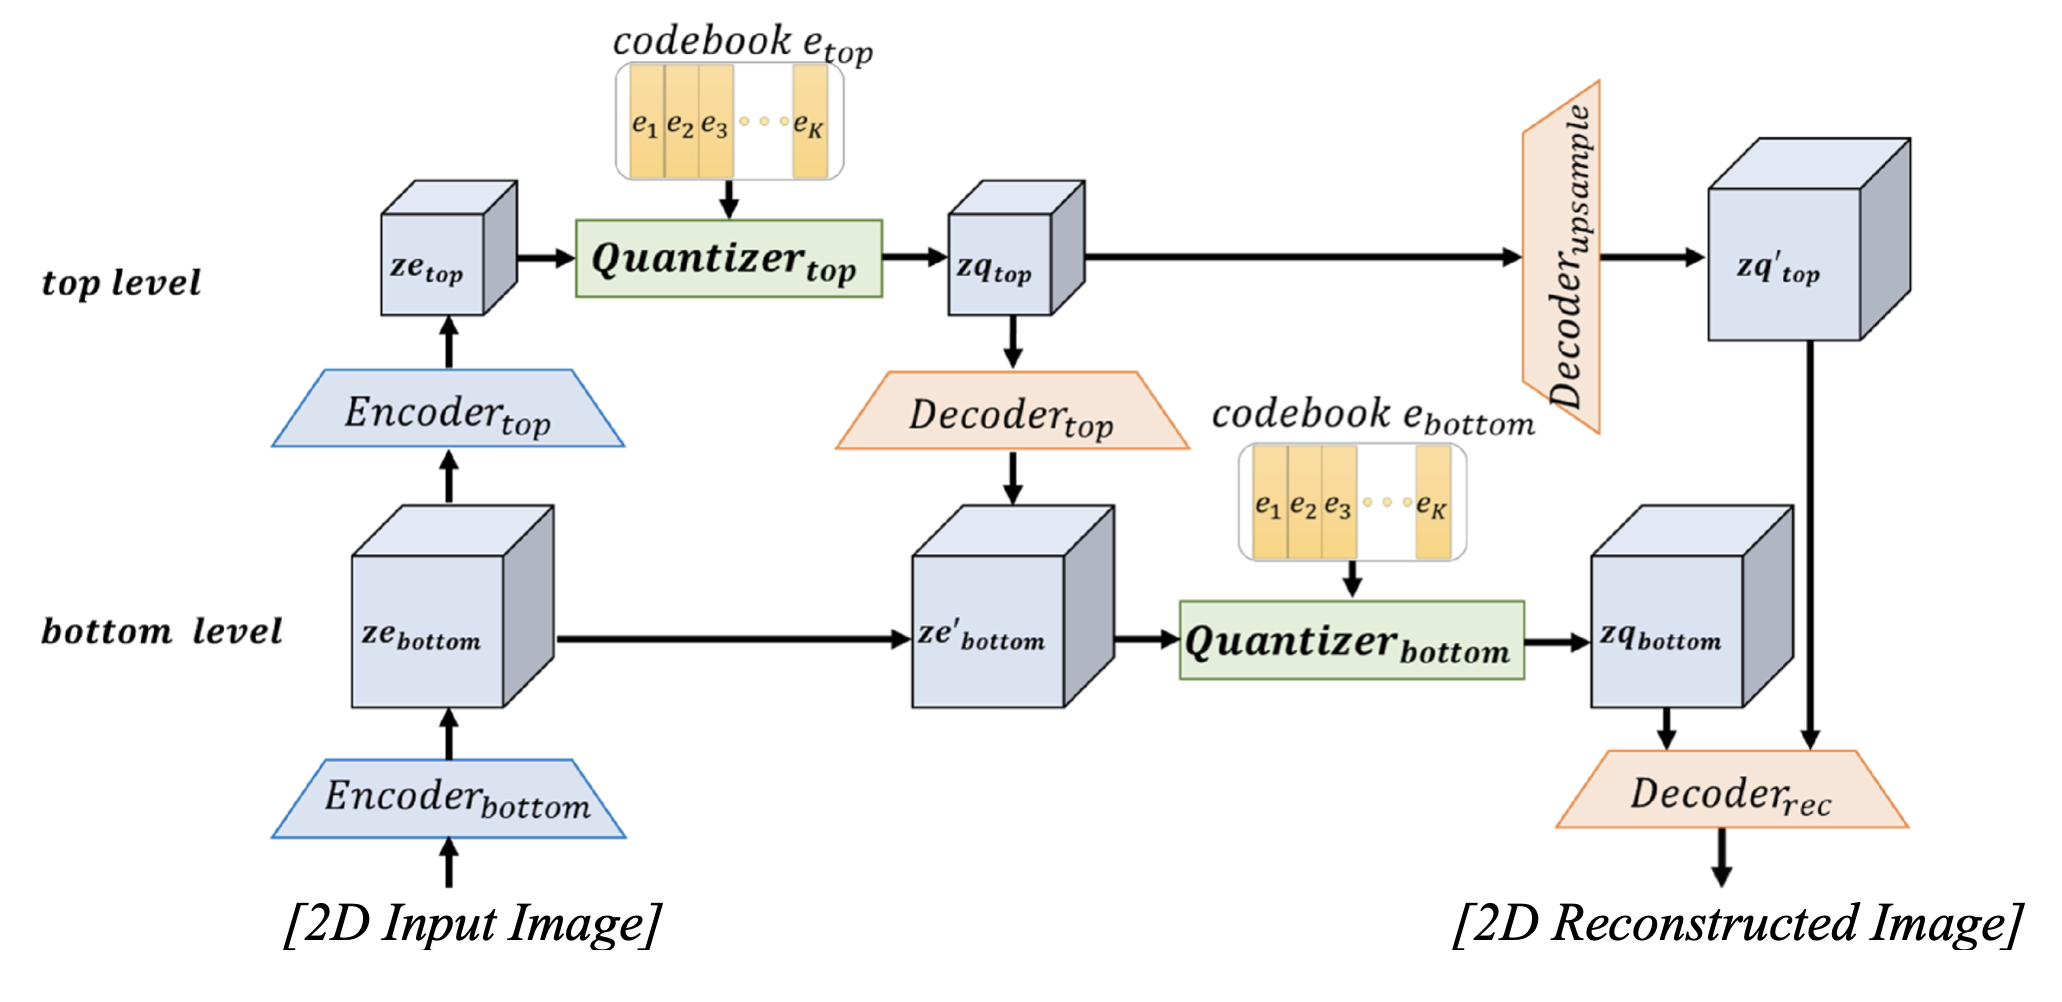
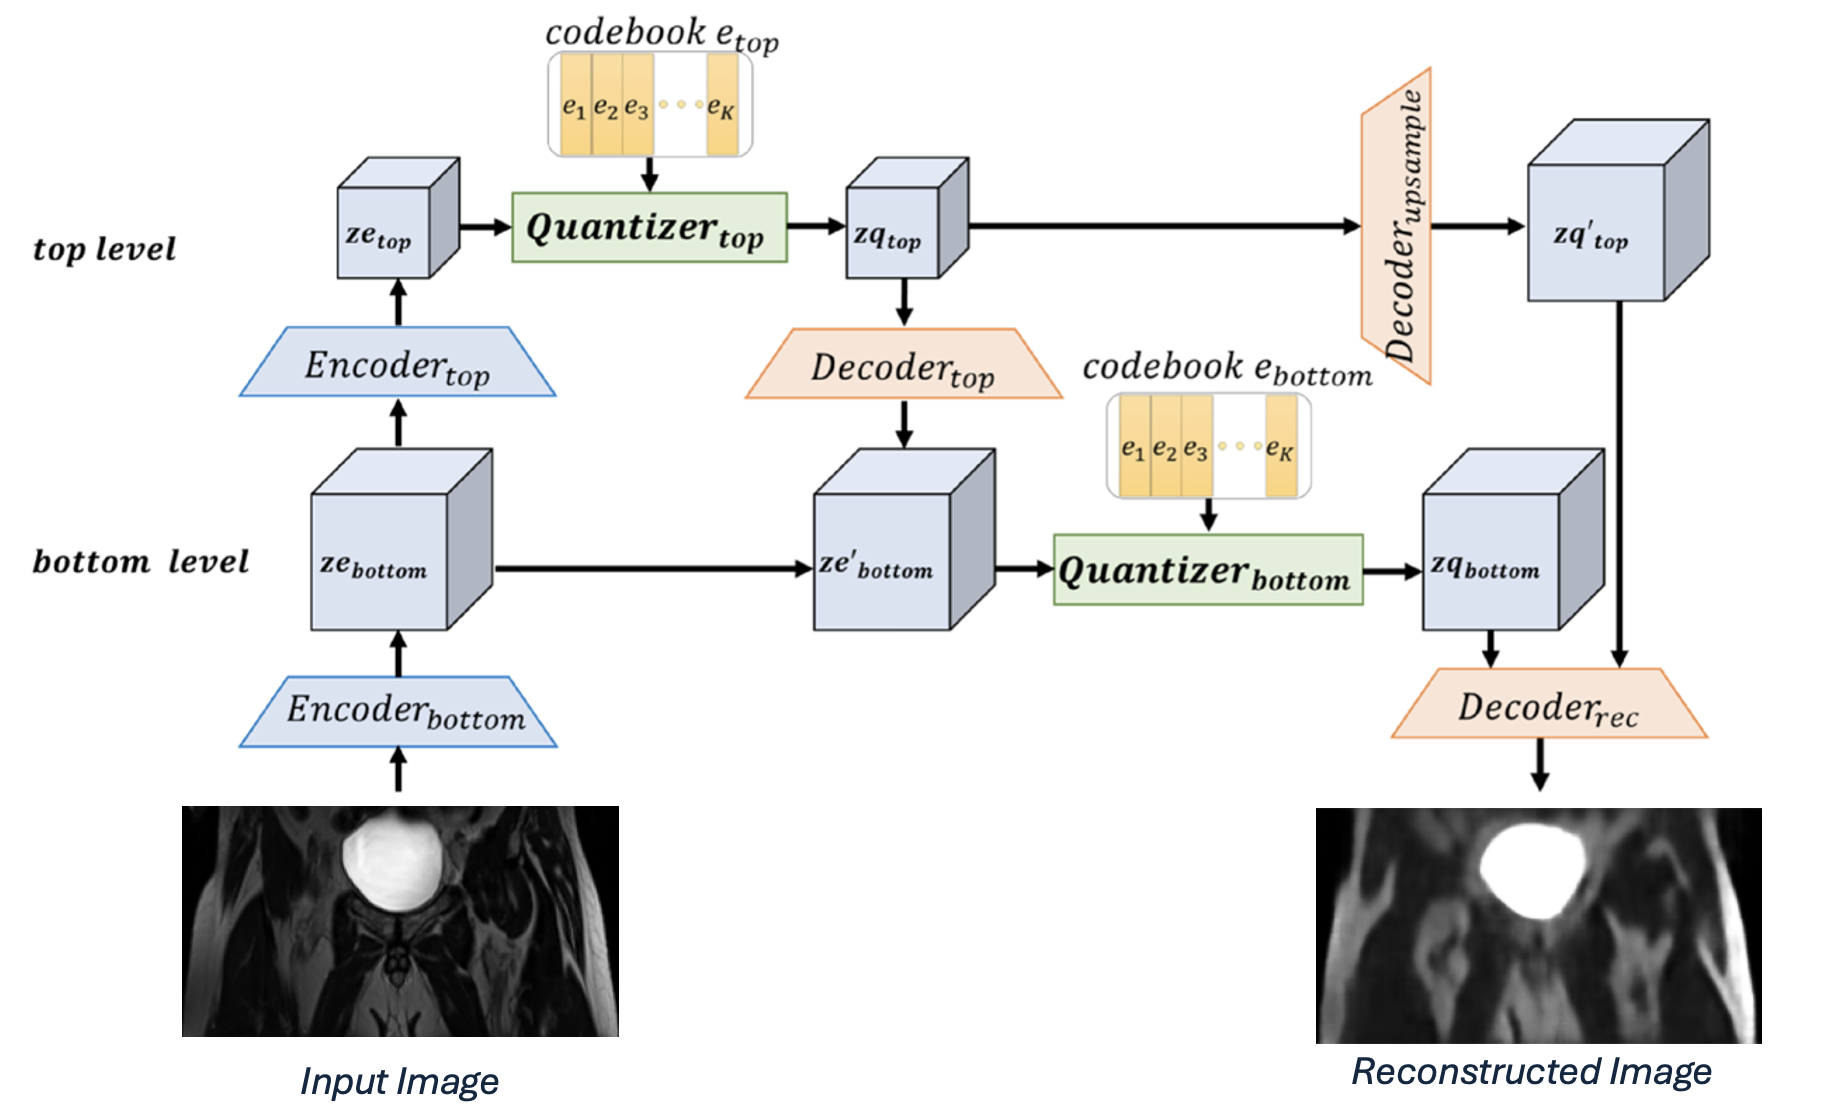
Changes for documentation
Changed diagram to be able to understand easier.

diff --git a/recognition/VQ_VAE_46989381/README.MD b/recognition/VQ_VAE_46989381/README.MD
@@ -36,9 +36,19 @@ The VQ-VAE-2 model consists of a hierarchical encoder–decoder structure with t
 *Figure 1: Overview of the VQ-VAE-2 hierarchical architecture, showing the bottom and top encoders, vector quantizers, and decoder [1].*
 
 
+## Training
+
+The VQ-VAE-2 model is trained for 80 epochs using the Adam optimizer, with a combined reconstruction (MSE) and vector quantization loss. During training, validation loss and SSIM are monitored each epoch to track reconstruction quality, and the final trained model along with loss and SSIM plots are saved in the train_dir folder.
+
+
 ## Dependencies and Setup
 
 This project requires **Python 3.8+** and several libraries for deep learning, data processing, and visualization. To ensure reproducibility, it is recommended to use a **Conda environment**.
+
+### Copying the Repository
+
+If you want to **make changes** to the code, you should **fork** the repository first and then **clone your fork**.  
+If you only want to **use the model**, you can simply **clone the repository** directly without forking.
 
 ### Setting Up
 
